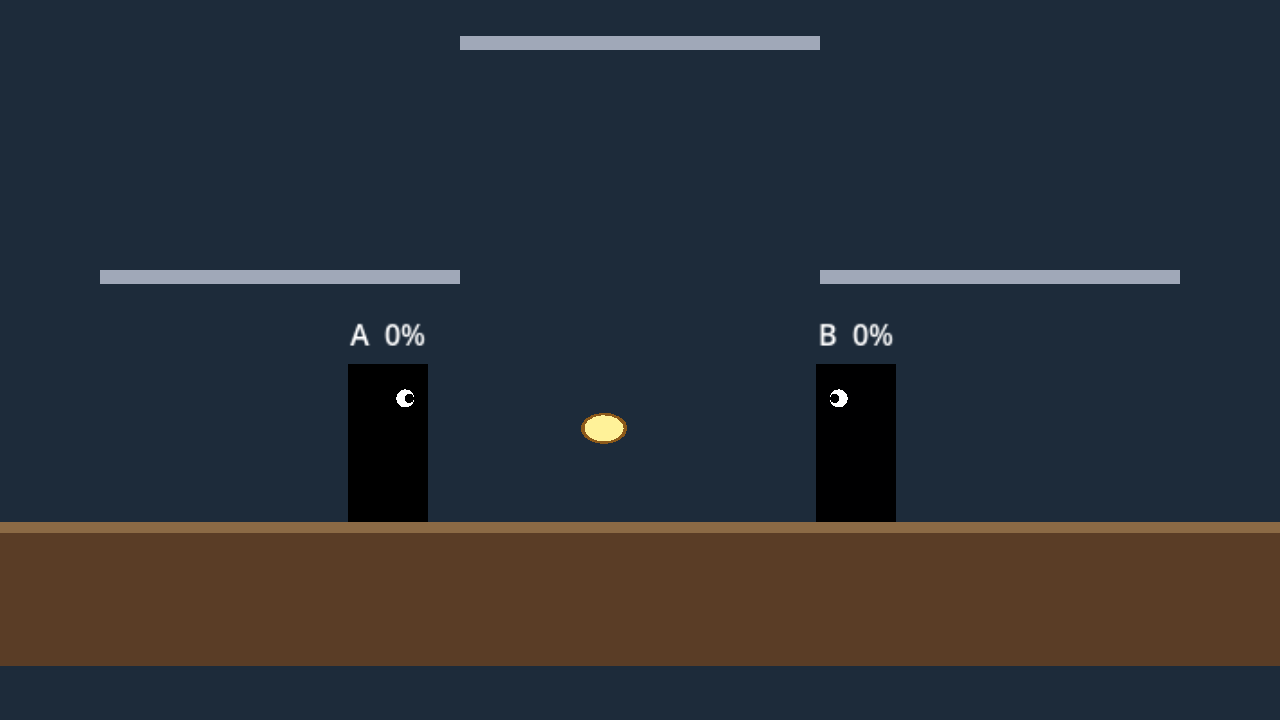
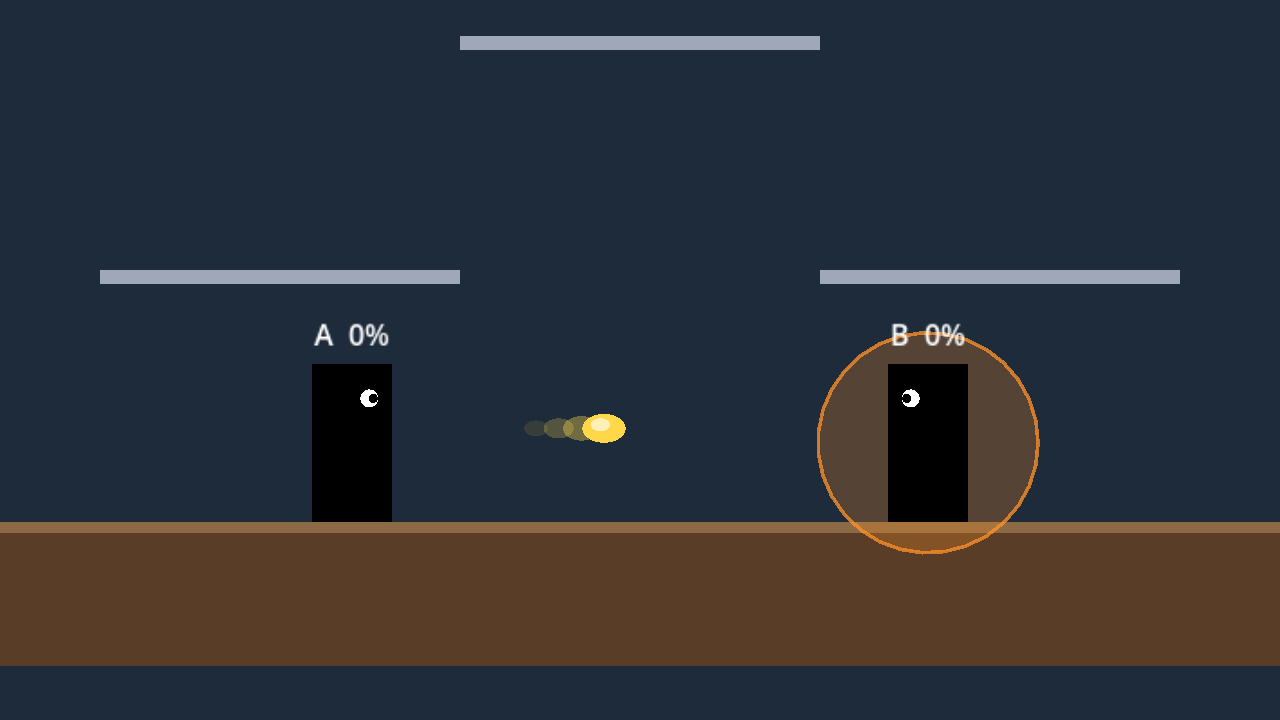
Godot: proiettili, carica e suoni delle speciali (E10 passo 4) (#190)
* Piano: proiettili, carica e suoni in Godot (E10 passo 4) [skip ci]

Claude-Session: https://claude.ai/code/session_01D6bSuPQryjN98WeYTTcgaY

* Disegna proiettili e carica, con i loro suoni

Claude-Session: https://claude.ai/code/session_01D6bSuPQryjN98WeYTTcgaY

---------

Changed region(s): [[0.625, 0.4278, 0.8125, 0.7944], [0.2188, 0.4278, 0.3438, 0.7333], [0.4062, 0.5806, 0.5, 0.6111]]

diff --git a/src/shared/constants.ts b/src/shared/constants.ts
@@ -118,7 +118,7 @@ export const GRAB = {
 // Mosse speciali di chi non ne ha di sue (E10, #111): i numeri della specifica, da playtest (#22).
 // I personaggi le cambiano in characters.ts (specials); il tasto e il motore arrivano nei passi 2 e 3
 export const DEFAULT_SPECIALS: SpecialSet = {
-  neutral: { type: "projectile", name: "Tiro", startupMs: 216, cooldownMs: 550, speed: 700, gravity: 0, lifeMs: 1200, maxAlive: 1, range: 24, height: 16, damage: 6, baseKnockback: 220, knockbackGrowth: 3.5, angleDeg: 30 },
+  neutral: { type: "projectile", name: "Tiro", startupMs: 216, cooldownMs: 550, speed: 700, gravity: 0, lifeMs: 1200, maxAlive: 1, range: 24, height: 16, damage: 6, baseKnockback: 220, knockbackGrowth: 3.5, angleDeg: 30, color: 0xffd84a },
   side: { type: "dash", name: "Scatto", startupMs: 100, durationMs: 250, speed: 900, endLagMs: 300, range: 40, height: 50, damage: 9, baseKnockback: 360, knockbackGrowth: 8, angleDeg: 35 },
   down: { type: "counter", name: "Contrattacco", startupMs: 50, windowMs: 400, endLagMs: 450, minDamage: 8, multiplier: 1.3, range: 60, height: 60, baseKnockback: 450, knockbackGrowth: 9, angleDeg: 40 },
 };

diff --git a/src/shared/characters.ts b/src/shared/characters.ts
@@ -155,6 +155,7 @@ export interface ProjectileSpecial extends SpecialBase, SpecialHit {
   gravity: number; // pixel/s²: 0 = dritto
   lifeMs: number; // dopo quanto sparisce da solo
   maxAlive: number; // proiettili dello stesso giocatore in volo insieme
+  color?: number; // colore del proiettile in Godot (0xRRGGBB); senza, quello del Tiro
 }
 // Scatto: si corre in avanti colpendo, in aria una volta sola fino all'atterraggio
 export interface DashSpecial extends SpecialBase, SpecialHit {
